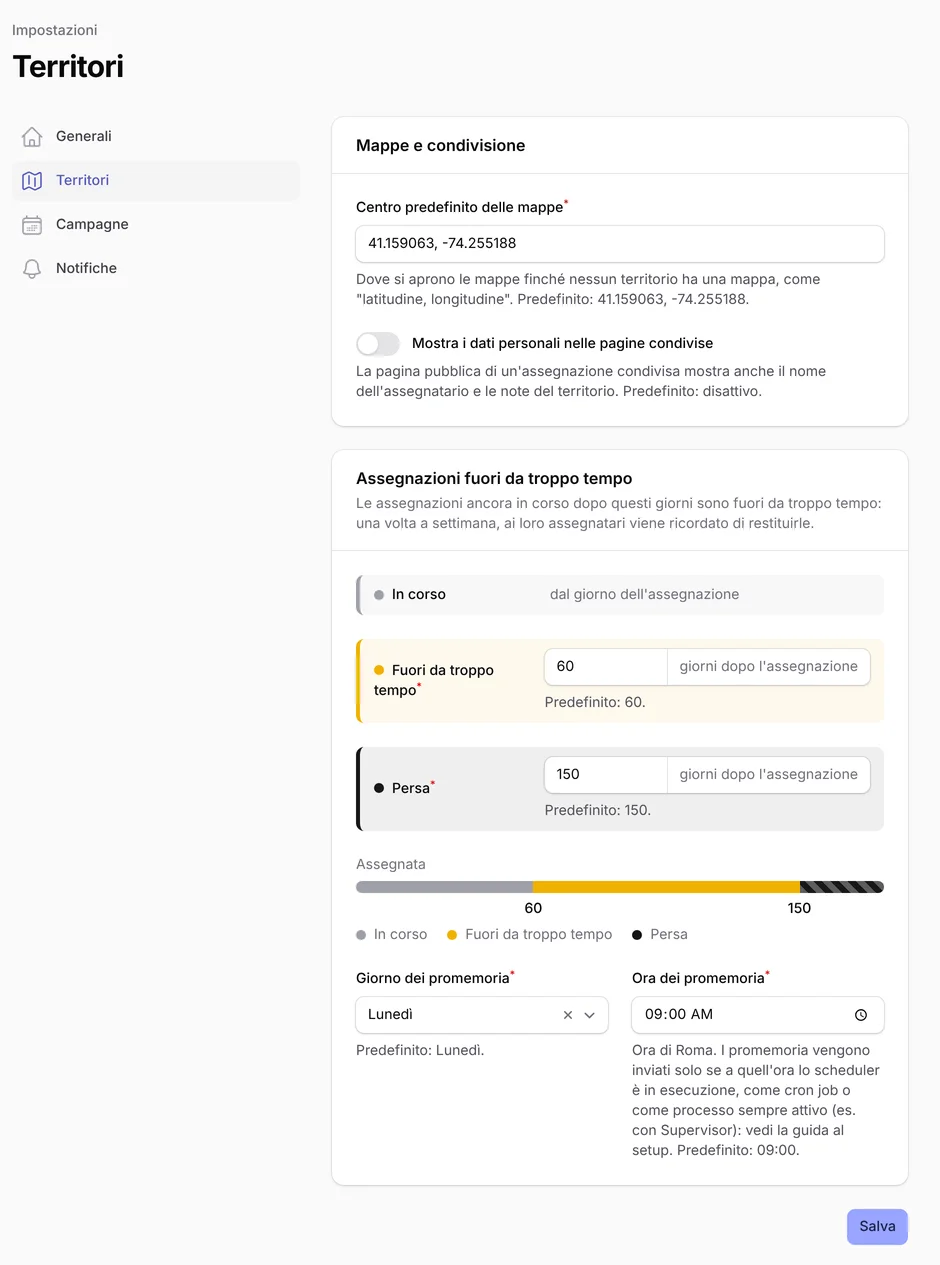
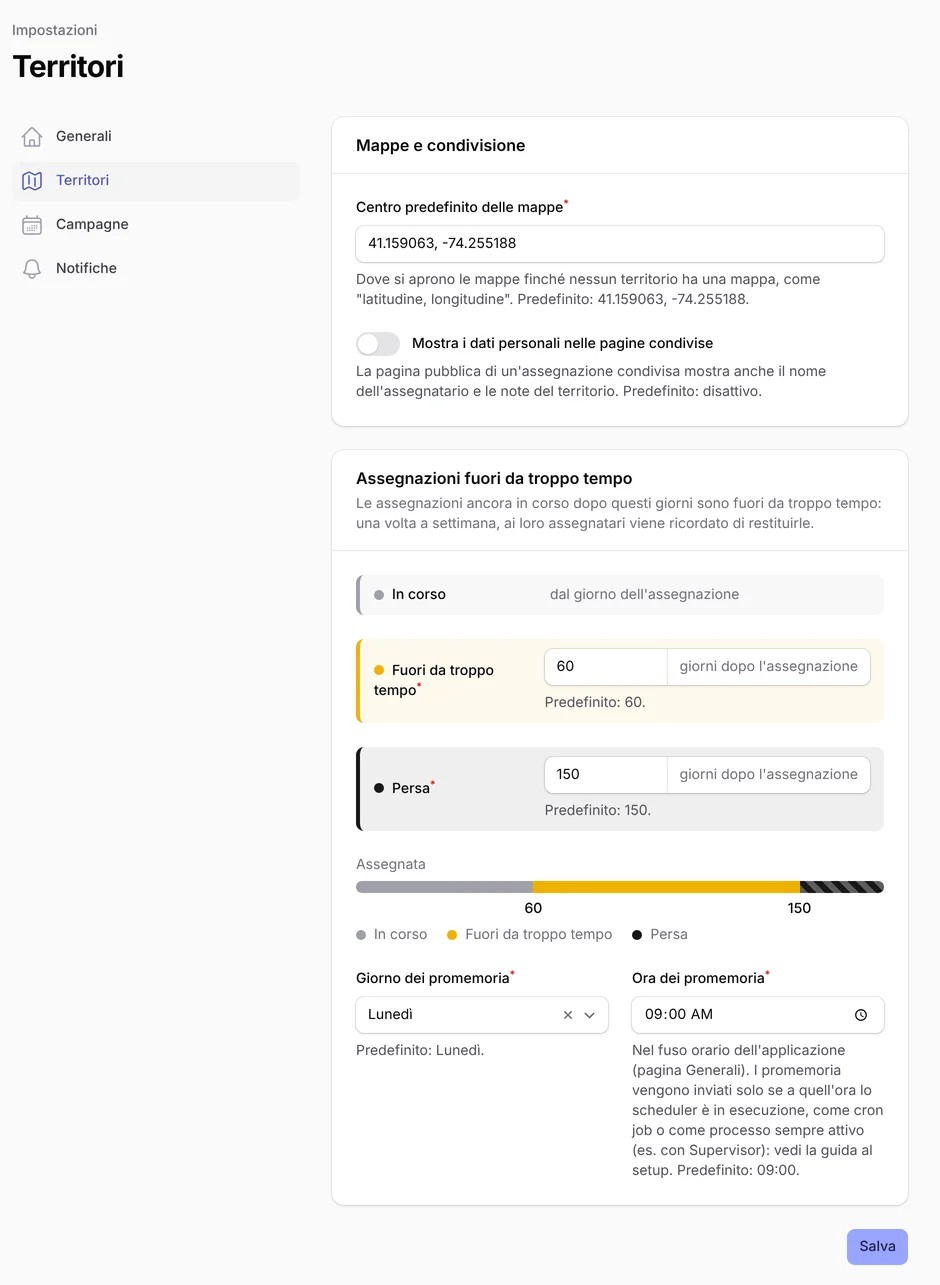
fix: schedule the stale reminders in the app timezone
The day and time chosen on the Settings page now follow the timezone of
the application instead of always Rome.

diff --git a/tests/Feature/DetectStaleAssignmentsTest.php b/tests/Feature/DetectStaleAssignmentsTest.php
@@ -55,16 +55,18 @@ test('only assignments in progress for more than 60 days are reported as stale',
     Event::assertDispatched(StaleAssignmentDetected::class, fn (StaleAssignmentDetected $event): bool => $event->assignment->is($veryStaleAssignment));
 });
 
-test('the stale assignments job is scheduled every Monday at 9:00, Rome time', function () {
+test('the stale assignments job is scheduled every Monday at 9:00, in the timezone of the application', function () {
     $task = staleAssignmentsScheduledTask();
 
     expect($task->expression)->toBe('0 9 * * 1')
-        ->and($task->timezone)->toBe('Europe/Rome')
+        ->and($task->timezone)->toBe(config('app.timezone'))
         ->and($task->withoutOverlapping)->toBeTrue()
         ->and($task->onOneServer)->toBeTrue();
 });
 
-test('the stale assignments job is due on Monday at 9:00, Rome time', function (string $now, bool $isDue) {
+test('the stale assignments job is due on Monday at 9:00 in the timezone of the application', function (string $now, bool $isDue) {
+    config(['app.timezone' => 'Europe/Rome']);
+
     $task = staleAssignmentsScheduledTask();
 
     $this->travelTo(CarbonImmutable::parse($now));
@@ -73,10 +75,14 @@ test('the stale assignments job is due on Monday at 9:00, Rome time', function (
 })->with([
     'Monday 9:00 in Rome, in winter' => ['2026-11-16 09:00 Europe/Rome', true],
     'Monday 9:00 in Rome, in summer' => ['2026-06-15 09:00 Europe/Rome', true],
+    'Monday 9:00 UTC' => ['2026-11-16 09:00 UTC', false],
     'Monday 0:00 UTC' => ['2026-11-16 00:00 UTC', false],
 ]);
 
 test('the stale assignments job runs once a week when the scheduler is called as on the previews', function () {
+    // The previews run in UTC, the default timezone
+    config(['app.timezone' => 'UTC']);
+
     $task = staleAssignmentsScheduledTask();
 
     // As cron-job.org does for the previews (see `.github/workflows/deploy-preview.yml`): every 5 minutes, from 8:00 to

diff --git a/tests/Feature/SettingsPageTest.php b/tests/Feature/SettingsPageTest.php
@@ -371,7 +371,7 @@ test('the stale assignments are checked on the chosen day and time', function ()
         ->first(fn (ScheduledTask $task): bool => $task->description === DetectStaleAssignments::class);
 
     expect($task->expression)->toBe('0 18 * * 3')
-        ->and($task->timezone)->toBe('Europe/Rome');
+        ->and($task->timezone)->toBe(config('app.timezone'));
 });
 
 test('equal stale assignment levels are both kept', function () {
@@ -420,6 +420,20 @@ test('queue workers apply the settings saved after they started before each job'
     event(new JobProcessing('database', $job));
 
     expect(config('mail.from.name'))->toBe('Territories of Springfield');
+});
+
+test('the stale assignments are checked in the timezone chosen on the General page', function () {
+    $settings = app(GeneralSettings::class);
+    $settings->timezone = 'America/Chicago';
+    $settings->save();
+
+    app(SettingsOverrides::class)->apply();
+    Artisan::all();
+
+    $task = collect(app(Schedule::class)->events())
+        ->first(fn (ScheduledTask $task): bool => $task->description === DetectStaleAssignments::class);
+
+    expect($task->timezone)->toBe('America/Chicago');
 });
 
 test('the stale assignments can be checked on any day and at any time', function () {

diff --git a/bootstrap/app.php b/bootstrap/app.php
@@ -56,14 +56,15 @@ return Application::configure(basePath: dirname(__DIR__))
             a multiple of 5 minutes (better on the hour, for services that
             call it hourly), in an explicit timezone, or it never runs. The
             day and time of the stale assignments check are chosen on the
-            Settings page: they must match how the scheduler is run.
+            Settings page, in the timezone of the application (UTC on the
+            previews): they must match how the scheduler is run.
         */
         $schedule->job(new DetectStaleAssignments)
             ->weeklyOn(
                 TerritorySettings::value('stale_check_day'),
                 TerritorySettings::value('stale_check_time'),
             )
-            ->timezone('Europe/Rome')
+            ->timezone(config('app.timezone'))
             ->withoutOverlapping()
             ->onOneServer();
         // ->onFailure(function (Stringable $output) {

diff --git a/lang/es/settings.php b/lang/es/settings.php
@@ -75,7 +75,7 @@ return [
         ],
         'stale_check_time' => [
             'label' => 'Hora de los recordatorios',
-            'helper' => 'Hora de Roma. Los recordatorios se envían solo si el planificador se está ejecutando a esa hora, como tarea cron o como proceso permanente (p. ej. con Supervisor): consulta la guía de instalación.',
+            'helper' => 'En la zona horaria de la aplicación (página Generales). Los recordatorios se envían solo si el planificador se está ejecutando a esa hora, como tarea cron o como proceso permanente (p. ej. con Supervisor): consulta la guía de instalación.',
         ],
         'mail_from_name' => [
             'label' => 'Nombre del remitente de los correos',

diff --git a/lang/it/settings.php b/lang/it/settings.php
@@ -75,7 +75,7 @@ return [
         ],
         'stale_check_time' => [
             'label' => 'Ora dei promemoria',
-            'helper' => 'Ora di Roma. I promemoria vengono inviati solo se a quell\'ora lo scheduler è in esecuzione, come cron job o come processo sempre attivo (es. con Supervisor): vedi la guida al setup.',
+            'helper' => 'Nel fuso orario dell\'applicazione (pagina Generali). I promemoria vengono inviati solo se a quell\'ora lo scheduler è in esecuzione, come cron job o come processo sempre attivo (es. con Supervisor): vedi la guida al setup.',
         ],
         'mail_from_name' => [
             'label' => 'Nome del mittente delle email',

diff --git a/lang/en/settings.php b/lang/en/settings.php
@@ -75,7 +75,7 @@ return [
         ],
         'stale_check_time' => [
             'label' => 'Time of the reminders',
-            'helper' => 'Rome time. The reminders are sent only if the scheduler is running at that time, as a cron job or as a long-running process (e.g. with Supervisor): see the setup guide.',
+            'helper' => 'In the timezone of the application (General page). The reminders are sent only if the scheduler is running at that time, as a cron job or as a long-running process (e.g. with Supervisor): see the setup guide.',
         ],
         'mail_from_name' => [
             'label' => 'Sender name of the emails',

diff --git a/app/Settings/TerritorySettings.php b/app/Settings/TerritorySettings.php
@@ -34,7 +34,7 @@ class TerritorySettings extends ConfigSettings
     public int $stale_check_day = Schedule::MONDAY;
 
     /**
-     * Time of the check of the stale assignments, as "HH:MM" (Rome time).
+     * Time of the check of the stale assignments, as "HH:MM", in the timezone of the application.
      */
     public string $stale_check_time = '09:00';
 

diff --git a/docs/user-documentation/en/administration/settings.md b/docs/user-documentation/en/administration/settings.md
@@ -33,10 +33,10 @@ Under **Assignments out for too long** the levels are listed in order, each with
 them to scale while you type:
 
 - the days after which an assignment still in progress is out for too long and then lost: the latter must be more;
-- the **day** and **time** (Rome time) of the weekly reminders sent to the assignees of the assignments out for too
-  long. They are sent only if the scheduler is running at that time, as a cron job or as a long-running process (e.g.
-  with Supervisor); on a hosting without cron, the external service must call it then (see the
-  [Setup guide](../setup)).
+- the **day** and **time** (in the timezone chosen on the **General** page) of the weekly reminders sent to the
+  assignees of the assignments out for too long. They are sent only if the scheduler is running at that time, as a cron
+  job or as a long-running process (e.g. with Supervisor); on a hosting without cron, the external service must call it
+  then (see the [Setup guide](../setup)).
 
 ## Campaigns
 

diff --git a/docs/user-documentation/it/administration/settings.md b/docs/user-documentation/it/administration/settings.md
@@ -34,10 +34,10 @@ li disegna in scala mentre scrivi:
 
 - i giorni dopo cui un'assegnazione ancora in corso è fuori da troppo tempo e poi persa: questi ultimi devono essere di
   più;
-- il **giorno** e l'**ora** (ora di Roma) dei promemoria settimanali inviati agli assegnatari delle assegnazioni fuori
-  da troppo tempo. Vengono inviati solo se a quell'ora lo scheduler è in esecuzione, come cron job o come processo
-  sempre attivo (es. con Supervisor); su un hosting senza cron, il servizio esterno deve chiamarlo a quell'ora (vedi la
-  [Guida al setup](../setup)).
+- il **giorno** e l'**ora** (nel fuso orario scelto nella pagina **Generali**) dei promemoria settimanali inviati agli
+  assegnatari delle assegnazioni fuori da troppo tempo. Vengono inviati solo se a quell'ora lo scheduler è in
+  esecuzione, come cron job o come processo sempre attivo (es. con Supervisor); su un hosting senza cron, il servizio
+  esterno deve chiamarlo a quell'ora (vedi la [Guida al setup](../setup)).
 
 ## Campagne
 
